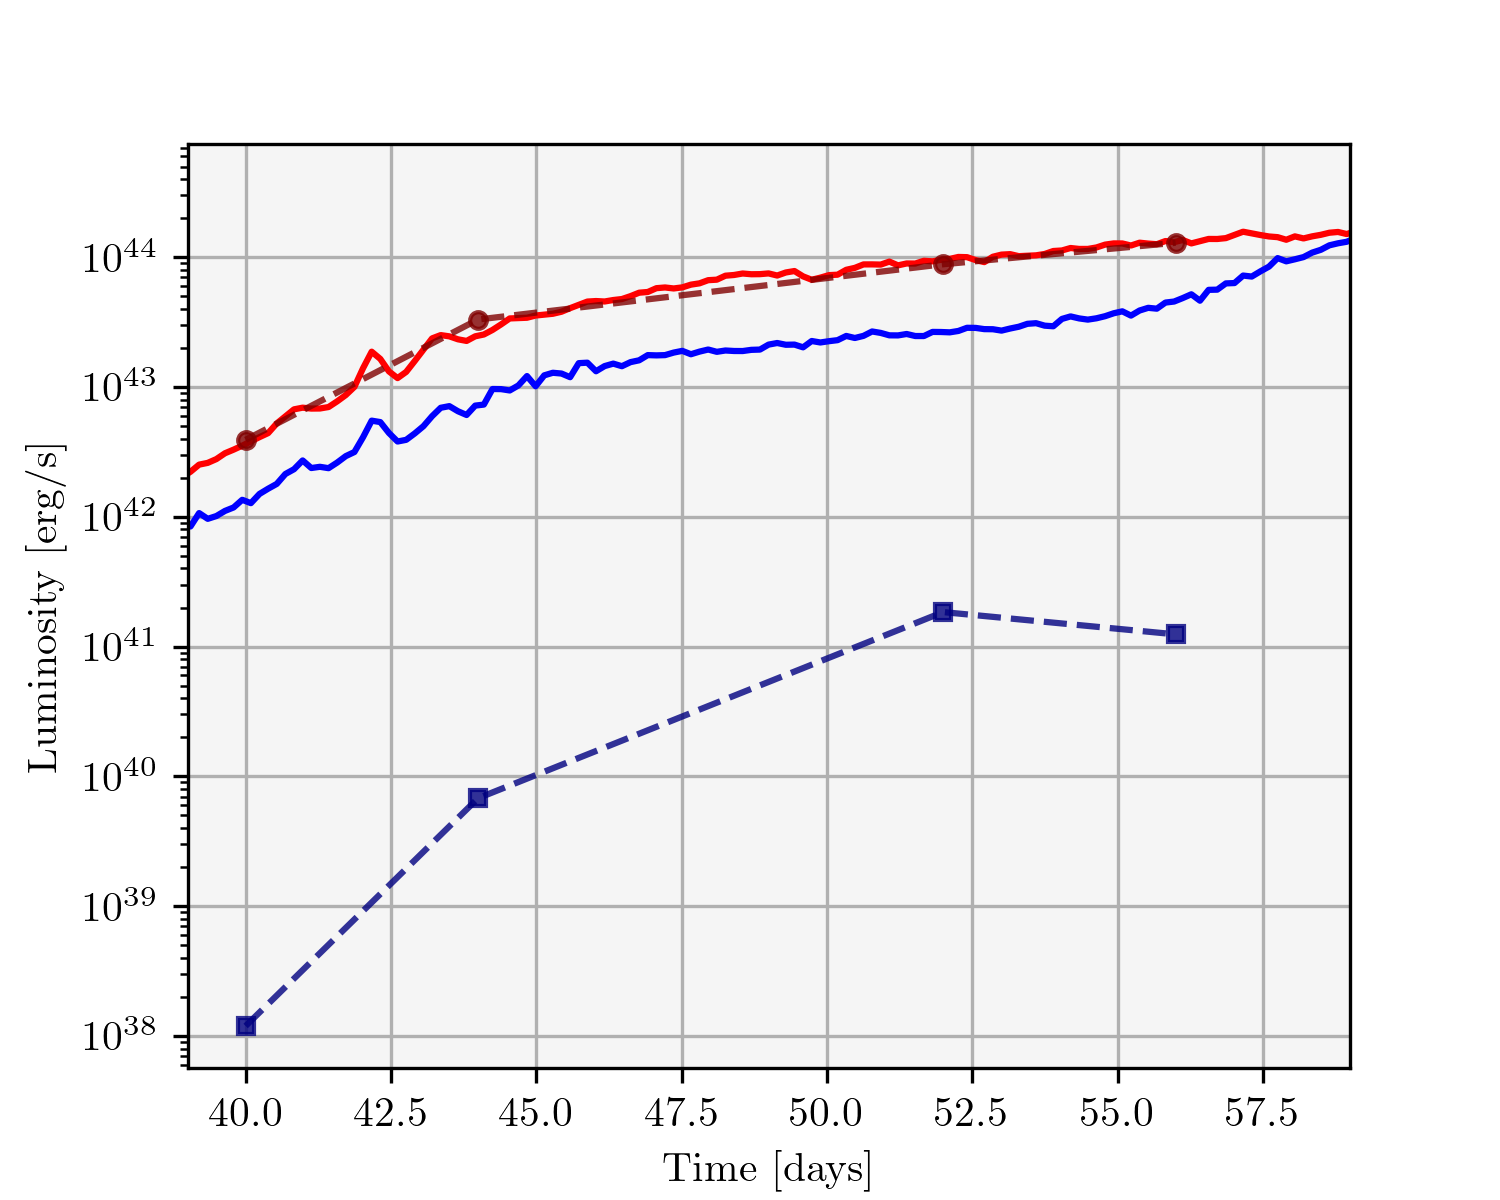
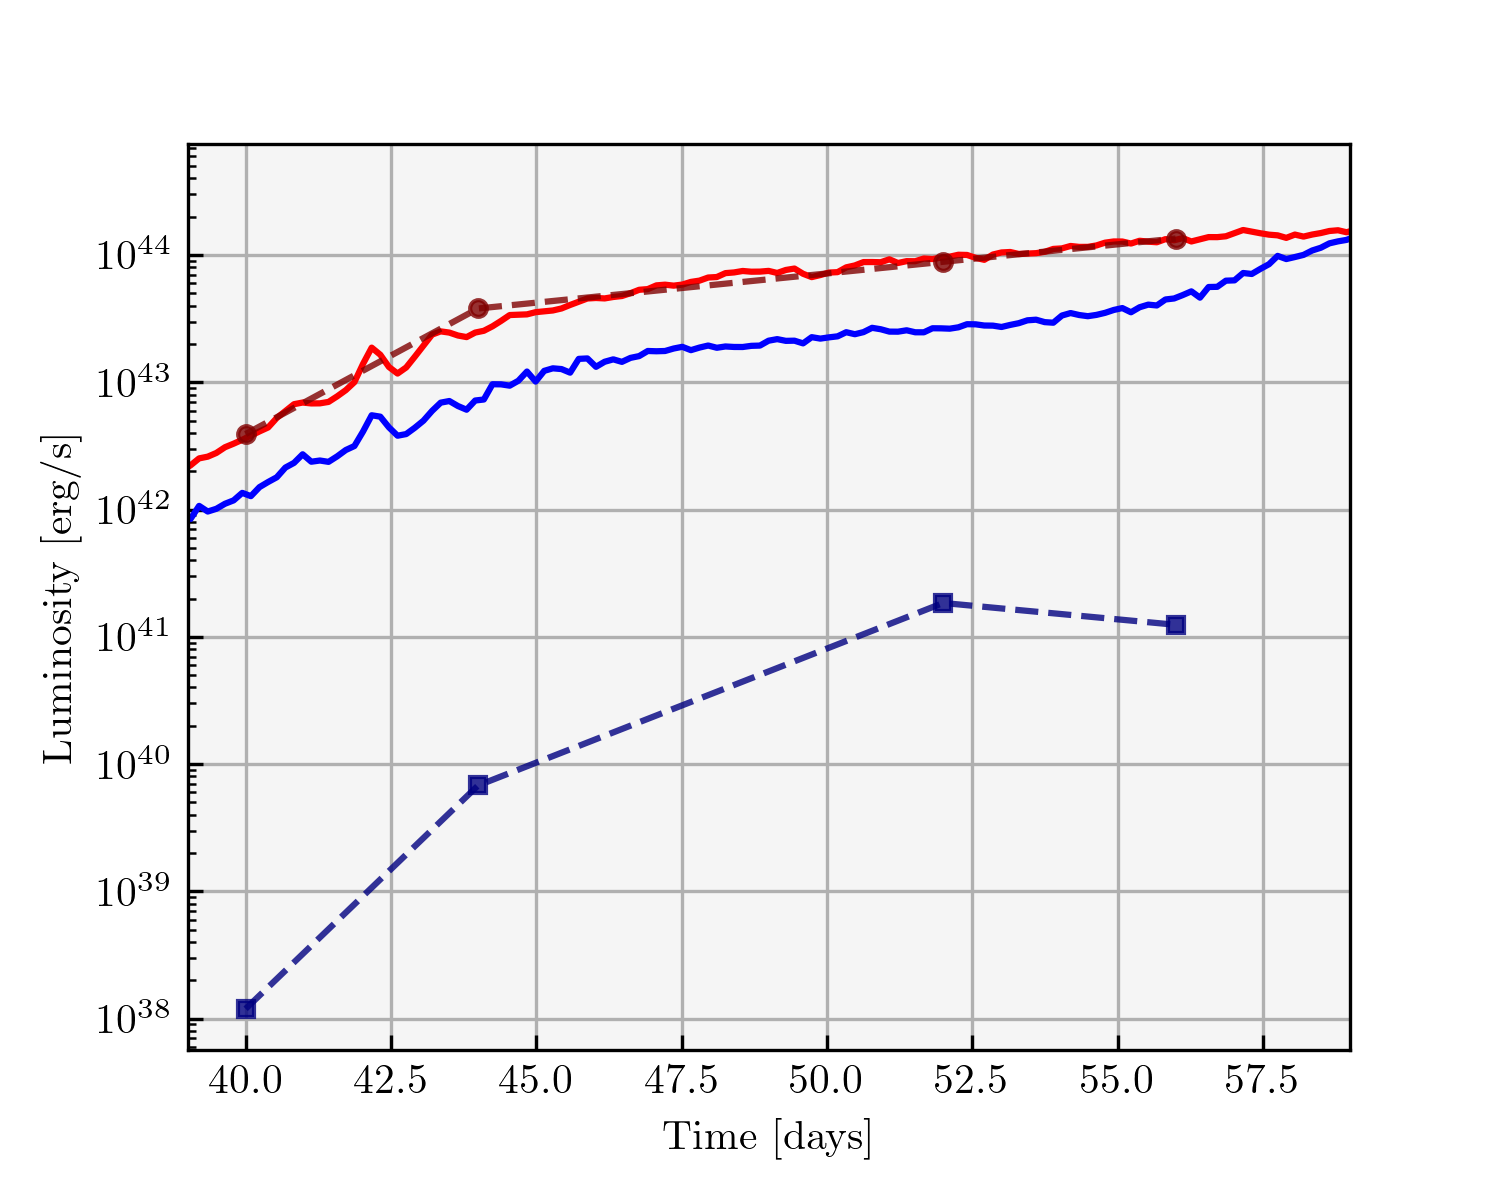
spacing and alice

Changed region(s): [[0.0, 0.185, 0.92, 0.6783], [0.0613, 0.7092, 0.92, 0.9867], [0.276, 0.6783, 0.3067, 0.7092]]

diff --git a/src/Luminosity/red_cesare.py b/src/Luminosity/red_cesare.py
@@ -29,25 +29,45 @@ plt.rcParams['figure.figsize'] = [5 , 4]
 #%% Constants & Converter
 c_cgs = 3e10 # [cm/s]
 Rsol_to_cm = 6.957e10 # [cm]
-
+alice = False
 #%%
 ##
 # FUNCTIONS
 ##
 ###
+def spacing(t):
+    if alice:
+        start = 1.00325
+        end = 1.608
+        n_start = 1200
+        n_end = 6000
+    else:
+        start = 1
+        end = 1.4
+        n_start = 1200
+        n_end = 4050
+    n = (t-start) * n_end - (t - end) * n_start
+    n /= (end - start)
+    return n
 
 def select_fix(m):
     if m == 4:
         snapshots = [233] #, 254, 263, 277 , 293, 308, 322]
         days = [1]# , 1.2, 1.3, 1.4, 1.56, 1.7, 1.8] 
     if m == 6:
-        snapshots = [844, 881, 898, 925, 950] #[844, 881, 882, 898, 925, 950]
-        days = [1, 1.1, 1.3, 1.4] #[1, 1.139, 1.143, 1.2, 1.3, 1.4] # t/t_fb
-        const = 0.05
-        beginning = 1200
-    num_array = beginning * np.ones(len(snapshots))
-    for i in range(1,len(num_array)):
-            num_array[i] = int(1.5 * num_array[i-1])
+        if alice:
+            snapshots = np.arange(844, 1008 + 1)
+            days = [1.00325,1.007,1.01075,1.01425,1.018,1.02175,1.0255,1.029,1.03275,1.0365,1.04025,1.04375,1.0475,1.05125,1.055,1.0585,1.06225,1.066,1.06975,1.07325,1.077,1.08075,1.0845,1.088,1.09175,1.0955,1.09925,1.10275,1.1065,1.11025,1.114,1.1175,1.12125,1.125,1.12875,1.13225,1.136,1.13975,1.1435,1.147,1.15075,1.1545,1.15825,1.16175,1.1655,1.16925,1.173,1.1765,1.18025,1.184,1.18775,1.19125,1.195,1.19875,1.2025,1.206,1.20975,1.2135,1.21725,1.22075,1.2245,1.22825,1.232,1.2355,1.23925,1.243,1.24675,1.25025,1.254,1.25775,1.2615,1.265,1.26875,1.2725,1.27625,1.27975,1.2835,1.28725,1.291,1.2945,1.29825,1.302,1.30575,1.30925,1.313,1.31675,1.3205,1.324,1.32775,1.3315,1.33525,1.33875,1.3425,1.34625,1.35,1.3535,1.35725,1.361,1.36475,1.36825,1.372,1.37575,1.3795,1.383,1.38675,1.3905,1.39425,1.39775,1.4015,1.40525,1.409,1.4125,1.41625,1.42,1.42375,1.42725,1.431,1.43475,1.4385,1.442,1.44575,1.4495,1.45325,1.45675,1.4605,1.46425,1.468,1.4715,1.47525,1.479,1.48275,1.48625,1.49,1.49375,1.4975,1.501,1.50475,1.5085,1.51225,1.51575,1.5195,1.52325,1.527,1.5305,1.53425,1.538,1.54175,1.54525,1.549,1.55275,1.5565,1.56,1.56375,1.5675,1.57125,1.57475,1.5785,1.58225,1.586,1.5895,1.59325,1.597,1.60075,1.60425,1.608]
+        else:
+            snapshots = [844, 881, 925, 950] #[844, 881, 882, 898, 925, 950]
+            days = [1, 1.1, 1.3, 1.4] #[1, 1.139, 1.143, 1.2, 1.3, 1.4] # t/t_fb
+            
+        #     const = 0.05
+    #     beginning = 1200
+    # num_array = beginning * np.ones(len(snapshots))
+    # for i in range(1,len(num_array)):
+    #         num_array[i] = int(1.5 * num_array[i-1])
+        num_array = [spacing(d) for d in days]
     return snapshots, days, num_array
 
 @numba.njit
@@ -213,7 +233,7 @@ if __name__ == "__main__":
     #%% Plotting
     if plot:
         plt.figure()
-        plt.plot(days, lums, '-o', color = 'maroon')
+        plt.plot(lums, '-o', color = 'maroon')
         plt.yscale('log')
         plt.ylabel('Bolometric Luminosity [erg/s]')
         plt.xlabel('Days')

diff --git a/src/Luminosity/Blackbody_cesare.py b/src/Luminosity/Blackbody_cesare.py
@@ -48,18 +48,26 @@ def log_array(n_min, n_max, lenght):
     x_arr = np.linspace(x_min, x_max , num = lenght)
     return x_arr
 
+def spacing(t):
+    start = 1
+    end = 1.4
+    n = (t-start) * 4050 - (t - end) * 1200
+    n /= (end - start)
+    return n
+
 def select_fix(m):
     if m == 4:
         snapshots = [233] #, 254, 263, 277 , 293, 308, 322]
         days = [1]# , 1.2, 1.3, 1.4, 1.56, 1.7, 1.8] 
     if m == 6:
         snapshots = [844, 881, 925, 950] #[844, 881, 882, 898, 925, 950]
-        days = [1, 1.1, 1.3, 1.4] #[1, 1.139, 1.143, 1.2, 1.3, 1.4] # t/t_fb
-        const = 0.05
-        beginning = 1200
-    num_array = beginning * np.ones(len(snapshots))
-    for i in range(1,len(num_array)):
-            num_array[i] = int(1.5 * num_array[i-1])
+        days = [1, 1.1, 1.3, 1.4] # [1, 1.2, 1.3, 1.4, 1.56, 1.7, 1.8] 
+    #     const = 0.05
+    #     beginning = 1200
+    # num_array = beginning * np.ones(len(snapshots))
+    # for i in range(1,len(num_array)):
+    #         num_array[i] = int(1.5 * num_array[i-1])
+        num_array = [spacing(d) for d in days]
     return snapshots, days, num_array
 
 def planck(Temperature: float, n: float) -> float:

diff --git a/src/Luminosity/thermR.py b/src/Luminosity/thermR.py
@@ -71,7 +71,8 @@ def optical_depth(T, rho, dr):
         kscattering = opacity(Tscatter, rho,'scattering', ln = False)
         oppi = np.sqrt(3 * kplanck * (kplanck + kscattering)) 
         tau_high = oppi * dr
-        return tau_high 
+        #return tau_high 
+        return kscattering * dr # checking
     
     # Lookup table
     oppi = opacity(T, rho,'effective', ln = False)
@@ -169,6 +170,7 @@ if __name__ == "__main__":
 
     for index,fix in enumerate(fixes):
         rays_T, rays_den, _, radii = ray_maker(fix, m)
+        #%%
         tau, thermr, cumulative_taus = get_thermr(rays_T, rays_den, radii)
         thermr /=  6.957e10
         fix_thermr_arit[index] = np.mean(thermr)

diff --git a/src/Luminosity/special_radii.py b/src/Luminosity/special_radii.py
@@ -171,7 +171,8 @@ def optical_depth(T, rho, dr):
         kscattering = opacity(Tscatter, rho,'scattering', ln = False)
         oppi = np.sqrt(3 * kplanck * (kplanck + kscattering)) 
         tau_high = oppi * dr
-        return tau_high 
+        # return tau_high 
+        return kscattering * dr # checking
     
     # Lookup table
     oppi = opacity(T, rho,'effective', ln = False)

diff --git a/src/Plotting/comparison_with_elad.py b/src/Plotting/comparison_with_elad.py
@@ -31,7 +31,7 @@ if plot_curves:
     # Ours Load
     x = np.loadtxt('data/frequencies_m' + str(m) + '.txt') # x = logν
     b = np.loadtxt('data/bluedata_m'+ str(m) + '.txt')[2]
-    fld_data = np.loadtxt('data/reddata_m'+ str(m) +'.txt')
+    fld_data = np.loadtxt('data/new2_reddata_m'+ str(m) +'.txt')
 
     # Elad Plot
     plt.plot(elad_time[0], np.power(10, elad_red[0]), c = 'r')
